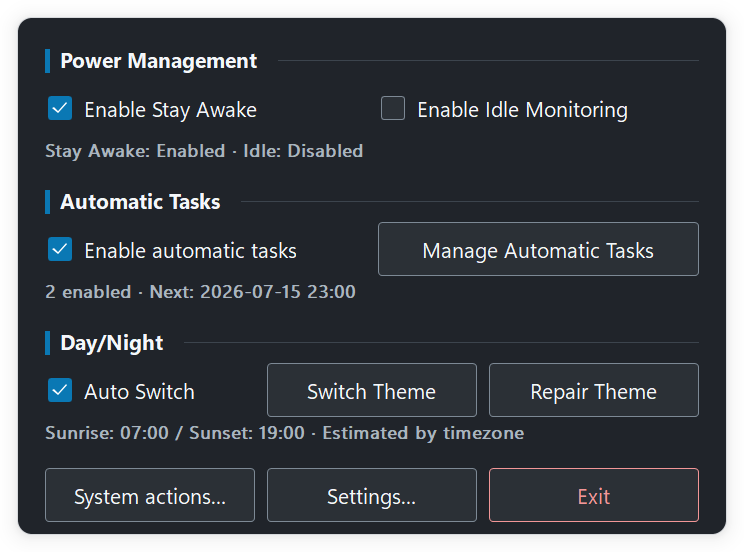
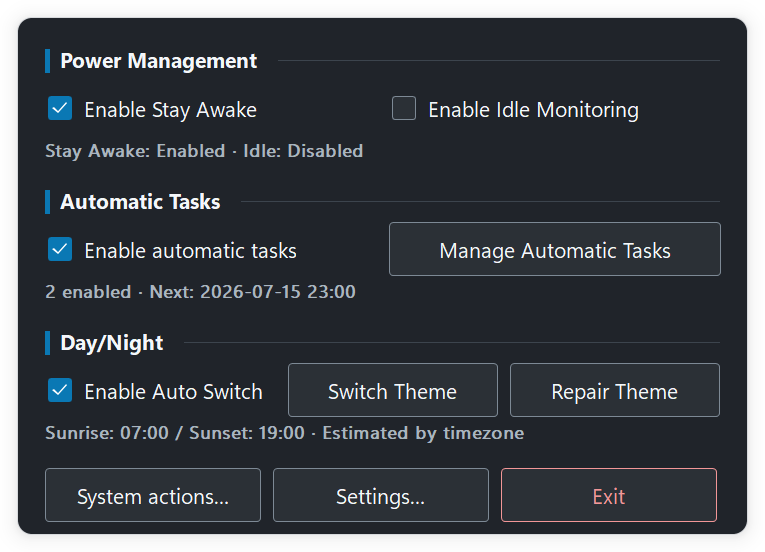
fix: preserve complete theme control labels

diff --git a/internal/ui/controlpanel/compact_controls.go b/internal/ui/controlpanel/compact_controls.go
@@ -39,6 +39,29 @@ func (p *panel) build() error {
 		}
 		return height, nil
 	}
+	themeRow := func(y int) (int, error) {
+		labels := []string{p.text("menu_theme_enable"), p.themeActionLabel(idThemeSwitch), p.themeActionLabel(idThemeRepair)}
+		const minimumToggleWidth = 154
+		totalWidth := baseW - 2*pad
+		toggleWidth := minimumToggleWidth
+		if measured := nativeform.CheckboxHitWidth(p.hwnd, p.font, labels[0], p.metrics.scale); measured > toggleWidth {
+			toggleWidth = measured
+		}
+		// Keep the two direct theme actions equal while reserving enough width
+		// for the full checkbox label in the compact control panel.
+		actionWidth := (totalWidth - toggleWidth - 2*gap) / 2
+		height := p.rowHeight(labels[1:], actionWidth)
+		if err := button(labels[0], pad, y, toggleWidth, height, idTheme); err != nil {
+			return 0, err
+		}
+		if err := button(labels[1], pad+toggleWidth+gap, y, actionWidth, height, idThemeSwitch); err != nil {
+			return 0, err
+		}
+		if err := button(labels[2], pad+toggleWidth+gap+actionWidth+gap, y, actionWidth, height, idThemeRepair); err != nil {
+			return 0, err
+		}
+		return height, nil
+	}
 
 	y := pad
 	if err := section(p.text("menu_power_management"), y); err != nil {
@@ -85,9 +108,7 @@ func (p *panel) build() error {
 		return err
 	}
 	y += sectionH + labelGap
-	height, err = row(y,
-		[]string{p.text("menu_theme_enable"), p.themeActionLabel(idThemeSwitch), p.themeActionLabel(idThemeRepair)},
-		[]uint16{idTheme, idThemeSwitch, idThemeRepair})
+	height, err = themeRow(y)
 	if err != nil {
 		return err
 	}

diff --git a/internal/ui/controlpanel/controlpanel_test.go b/internal/ui/controlpanel/controlpanel_test.go
@@ -294,8 +294,8 @@ func TestOwnedBrushesIncludesEveryPanelBrush(t *testing.T) {
 
 func TestPopupMetricsUseOneDPITransform(t *testing.T) {
 	metrics := newPanelMetrics(defaultPanelStyle, 1.5)
-	if got := metrics.px(metrics.style.Layout.PanelWidth); got != 708 {
-		t.Fatalf("scaled panel width = %d, want 708", got)
+	if got := metrics.px(metrics.style.Layout.PanelWidth); got != 729 {
+		t.Fatalf("scaled panel width = %d, want 729", got)
 	}
 }
 
@@ -478,7 +478,7 @@ func TestThemeActionsShareOneEqualGridRow(t *testing.T) {
 		t.Skip("skipping native Win32 integration test in short mode")
 	}
 	labels := map[string]string{
-		"menu_theme_enable":     "Auto Switch",
+		"menu_theme_enable":     "Enable Auto Switch",
 		"menu_theme_switch_now": "Switch Theme",
 		"menu_theme_repair":     "Repair Theme",
 	}
@@ -500,6 +500,9 @@ func TestThemeActionsShareOneEqualGridRow(t *testing.T) {
 		}
 		if switchTheme.y != repairTheme.y || switchTheme.width != repairTheme.width || switchTheme.height != repairTheme.height {
 			t.Fatalf("theme action grid is uneven: switch=%+v repair=%+v", switchTheme, repairTheme)
+		}
+		if toggle.width <= switchTheme.width {
+			t.Fatalf("theme toggle width = %d, want more than action width %d", toggle.width, switchTheme.width)
 		}
 		if gap := repairTheme.x - switchTheme.x - switchTheme.width; gap != p.metrics.style.Layout.Gap {
 			t.Fatalf("theme action gap = %d, want %d", gap, p.metrics.style.Layout.Gap)

diff --git a/internal/ui/controlpanel/style.go b/internal/ui/controlpanel/style.go
@@ -42,7 +42,7 @@ type panelStyle struct {
 
 var defaultPanelStyle = panelStyle{
 	Layout: layoutTokens{
-		PanelWidth: 472, Padding: nativeform.FormPadding, Gap: nativeform.ControlGap, SectionGap: nativeform.SectionGap, LabelGap: nativeform.LabelGap,
+		PanelWidth: 486, Padding: nativeform.FormPadding, Gap: nativeform.ControlGap, SectionGap: nativeform.SectionGap, LabelGap: nativeform.LabelGap,
 		ButtonHeight: nativeform.ButtonHeight, SectionHeight: 22, SubtitleHeight: 18,
 	},
 	Fonts: fontTokens{
